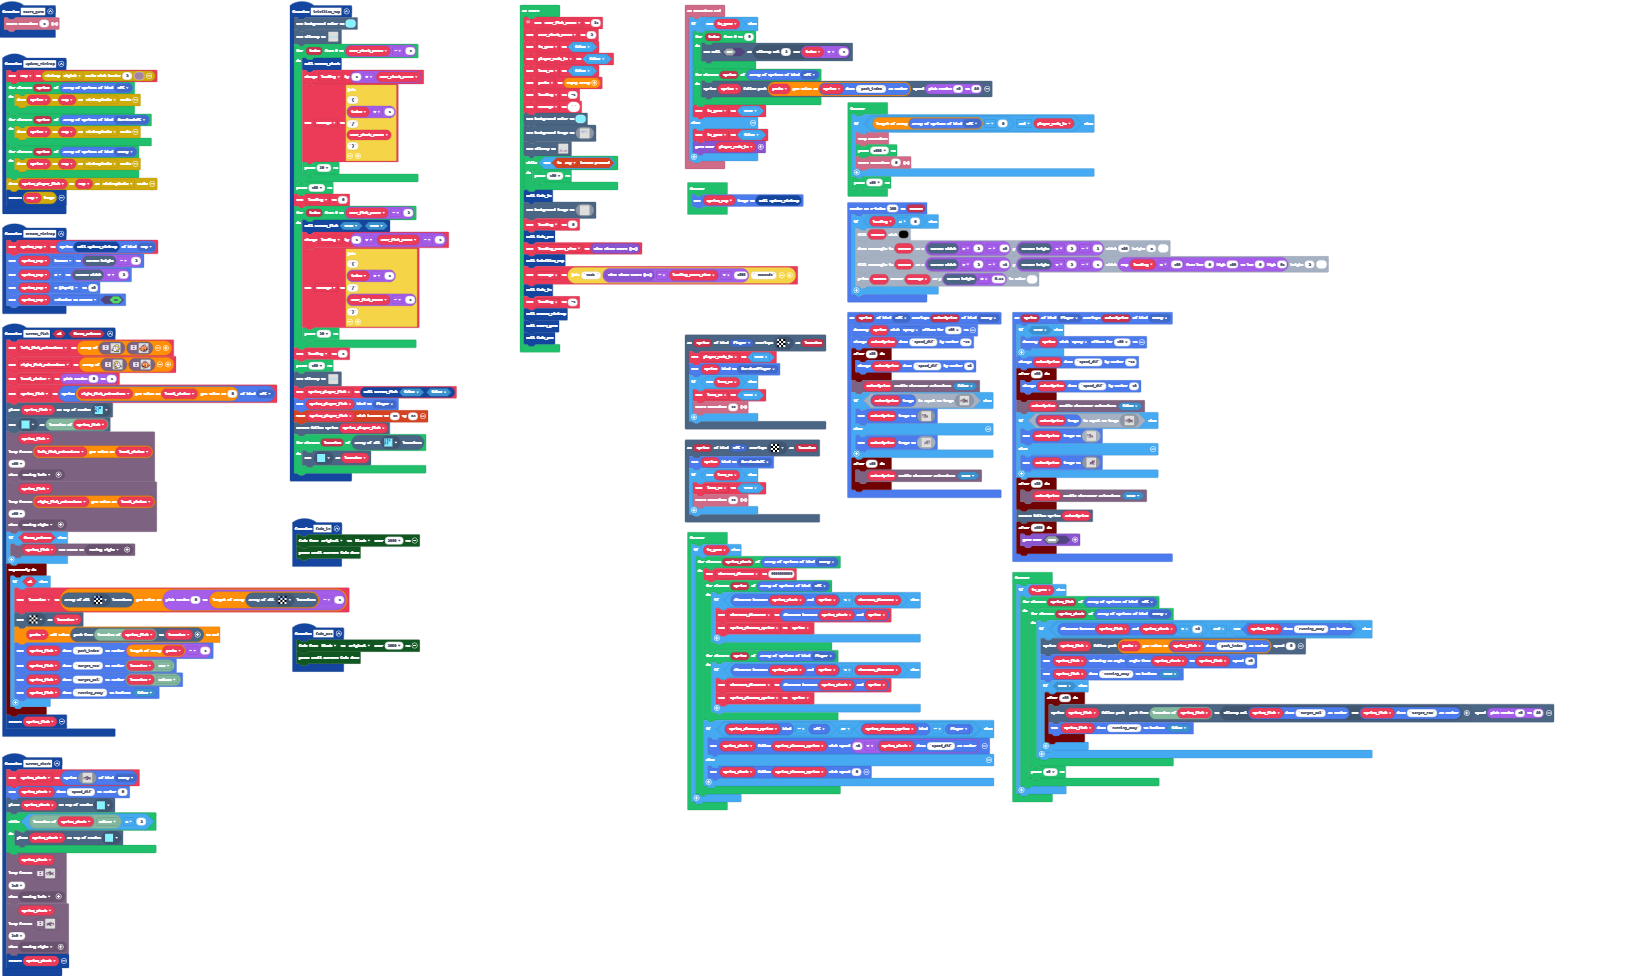
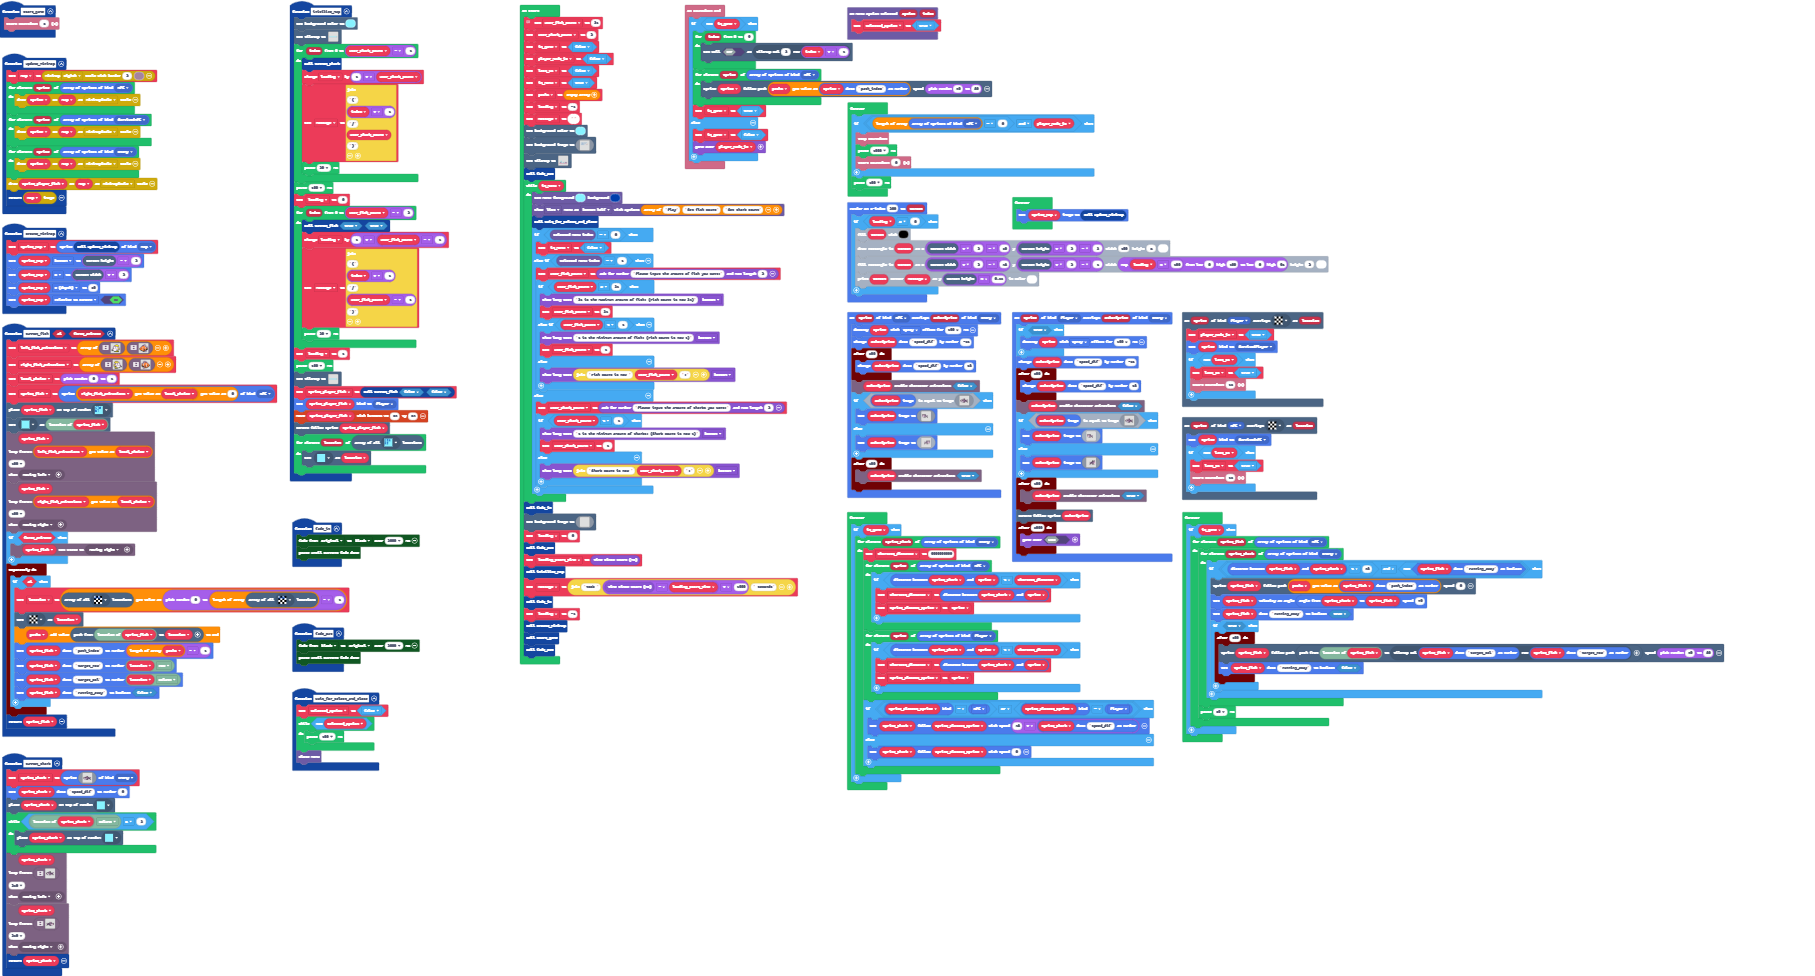
Pretty menu

Changed region(s): [[0.0, 0.0, 0.9611, 0.8299], [0.0, 0.7684, 0.093, 1.0], [0.0, 0.0, 0.031, 0.0307]]

diff --git a/main.ts b/main.ts
@@ -126,6 +126,13 @@ function fade_out () {
     color.startFade(color.Black, color.originalPalette, 2000)
     color.pauseUntilFadeDone()
 }
+function wait_for_select_and_close () {
+    selected_option = false
+    while (!(selected_option)) {
+        pause(100)
+    }
+    blockMenu.closeMenu()
+}
 info.onCountdownEnd(function () {
     if (!(in_game)) {
         for (let index = 0; index <= 9; index++) {
@@ -369,6 +376,9 @@ function create_minimap () {
     sprite_map.z = 50
     sprite_map.setFlag(SpriteFlag.RelativeToCamera, true)
 }
+blockMenu.onMenuOptionSelected(function (option, index) {
+    selected_option = true
+})
 sprites.onOverlap(SpriteKind.Player, SpriteKind.Enemy, function (sprite, otherSprite) {
     if (true) {
         sprite.destroy(effects.spray, 100)
@@ -448,6 +458,7 @@ let sprite_map: Sprite = null
 let sprite_shark: Sprite = null
 let map: minimap.Minimap = null
 let sprite_player_fish: Sprite = null
+let selected_option = false
 let location: tiles.Location = null
 let sprite_fish: Sprite = null
 let local_choice = 0
@@ -467,6 +478,7 @@ user_shark_count = 2
 in_game = false
 player_made_it = false
 last_15 = false
+let in_menu = true
 paths = []
 loading = -1
 message = ""
@@ -603,8 +615,33 @@ tiles.setTilemap(tiles.createTilemap(hex`0a0008000000000000000000000000000000000
     . . . . . . . . . . 
     . . . . . . . . . . 
     `, [myTiles.transparency16,sprites.builtin.oceanSand6,sprites.builtin.coral0,sprites.builtin.coral2,sprites.builtin.coral1,myTiles.tile2,myTiles.tile3,myTiles.tile4,myTiles.tile8,myTiles.tile9,myTiles.tile11], TileScale.Sixteen))
-while (!(controller.anyButton.isPressed())) {
-    pause(100)
+fade_out()
+while (in_menu) {
+    blockMenu.setColors(9, 8)
+    blockMenu.showMenu(["Play", "Set fish count", "Set shark count"], MenuStyle.List, MenuLocation.BottomHalf)
+    wait_for_select_and_close()
+    if (blockMenu.selectedMenuIndex() == 0) {
+        in_menu = false
+    } else if (blockMenu.selectedMenuIndex() == 1) {
+        user_fish_count = game.askForNumber("Please input the amount of fish you want:", 2)
+        if (user_fish_count > 31) {
+            game.showLongText("31 is the maximum amount of fish! (Fish count is now 31)", DialogLayout.Bottom)
+            user_fish_count = 31
+        } else if (user_fish_count < 1) {
+            game.showLongText("1 is the minimum amount of fish! (Fish count is now 1)", DialogLayout.Bottom)
+            user_fish_count = 1
+        } else {
+            game.showLongText("Fish count is now " + user_fish_count + "!", DialogLayout.Bottom)
+        }
+    } else {
+        user_shark_count = game.askForNumber("Please input the amount of sharks you want:", 2)
+        if (user_shark_count < 1) {
+            game.showLongText("1 is the minimum amount of sharks! (Shark count is now 1)", DialogLayout.Bottom)
+            user_shark_count = 1
+        } else {
+            game.showLongText("Shark count is now " + user_shark_count + "!", DialogLayout.Bottom)
+        }
+    }
 }
 fade_in()
 scene.setBackgroundImage(img`
